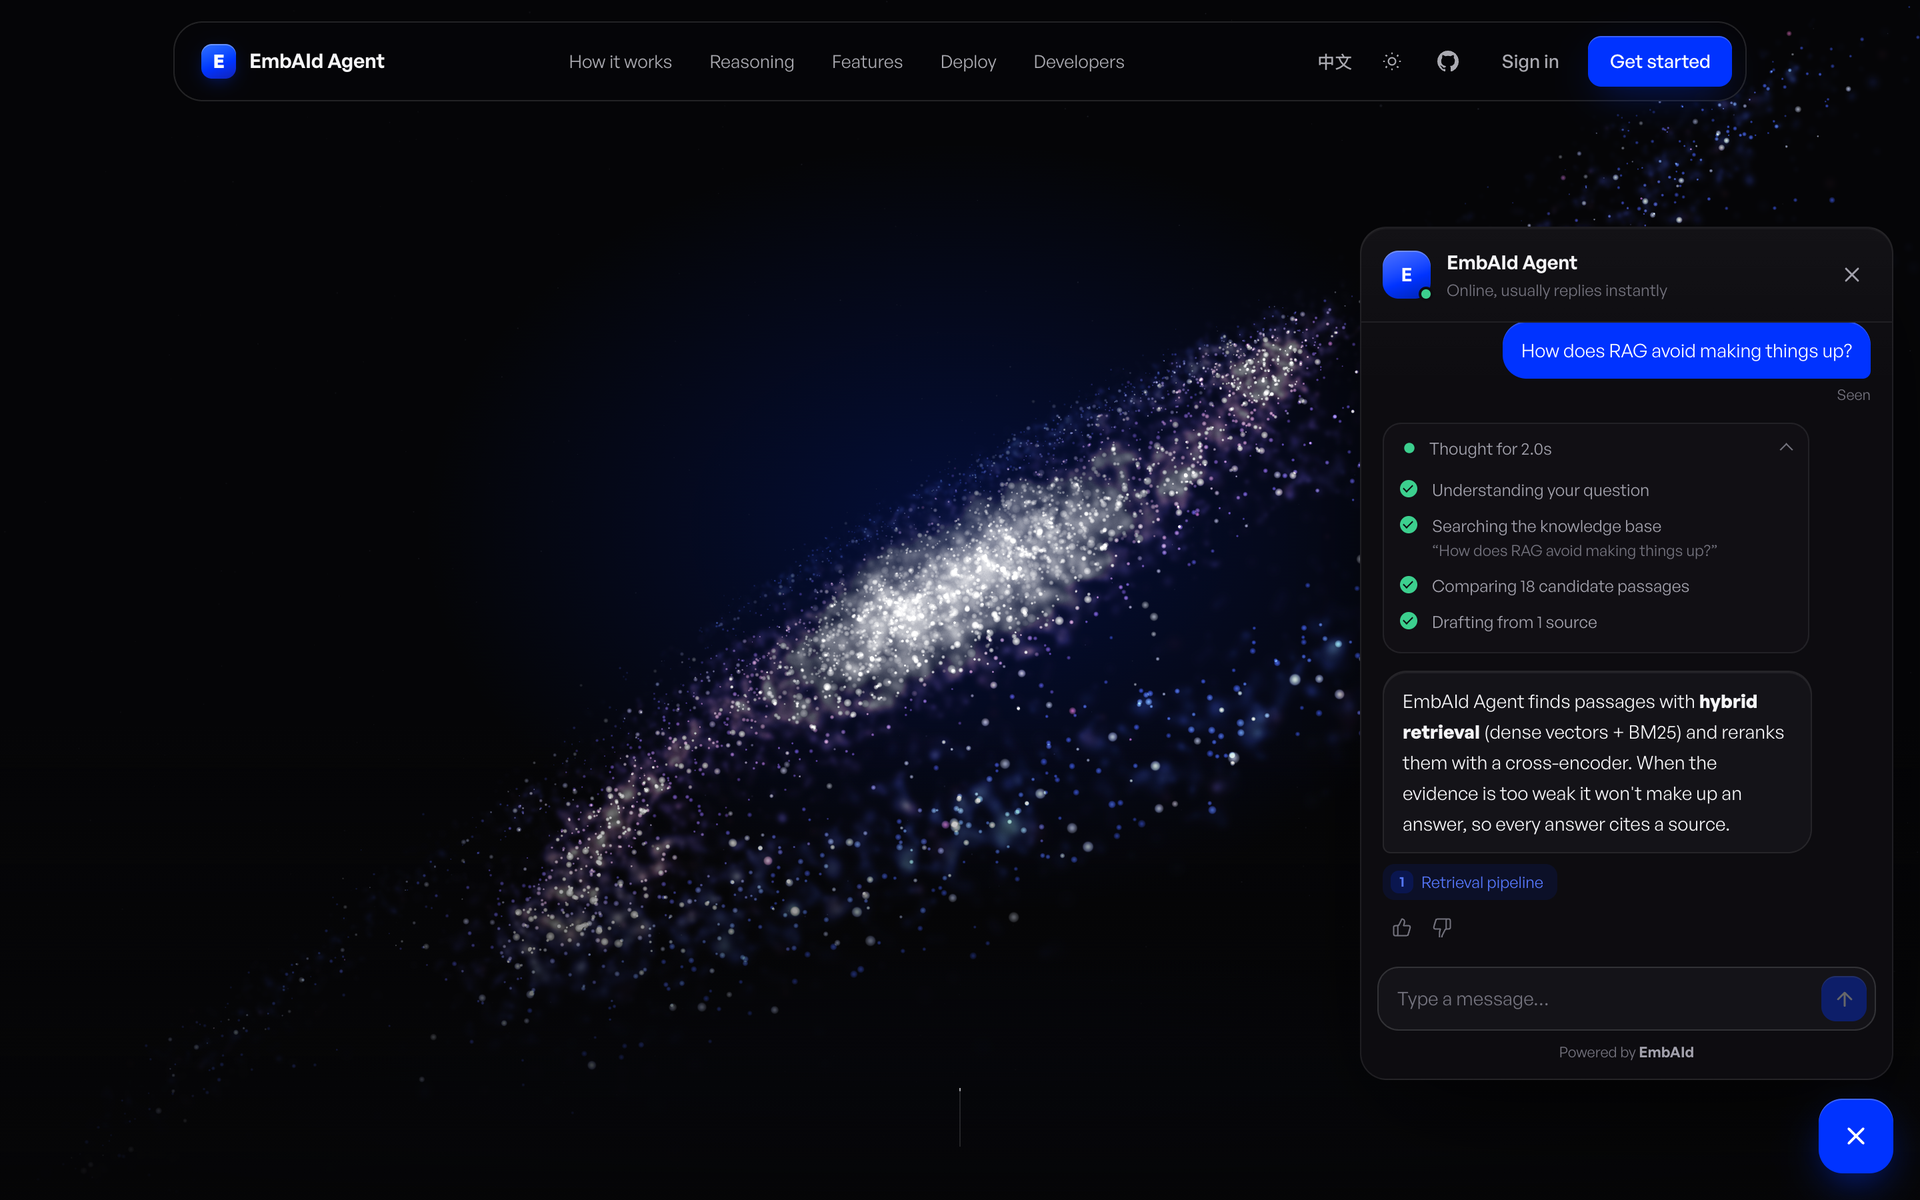
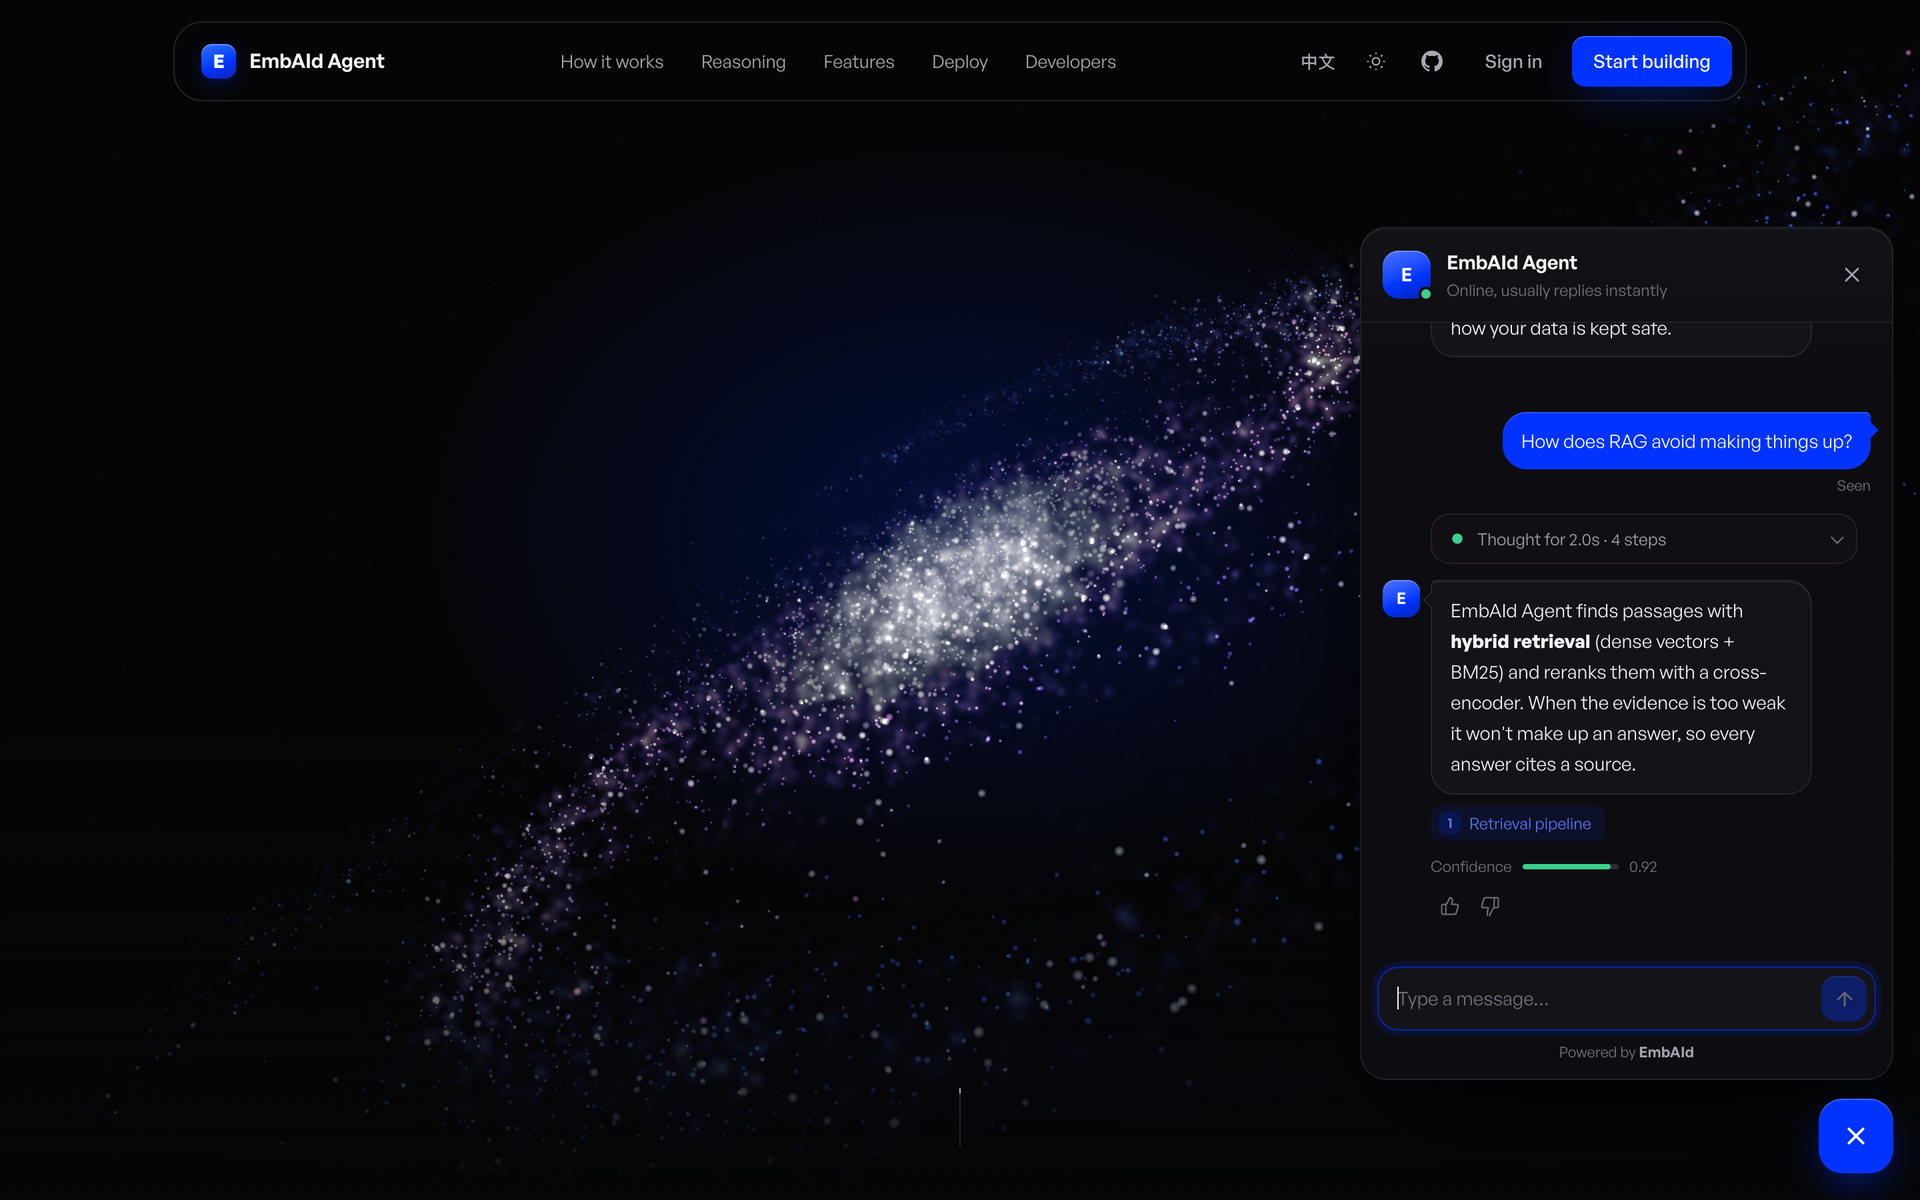
docs: refresh README screenshots and replace the bookstore demo shot

diff --git a/README.md b/README.md
@@ -113,7 +113,7 @@ runner, so a full instance starts with one command and no Docker.
 | **Landing page.** A WebGL particle field morphs through ten shapes that tell the product story. | **One script tag.** The intro section, with the embed snippet and the RAG pipeline stages. |
 | ![Dashboard overview](.github/assets/screenshots/dashboard-overview.png) | ![Playground with reasoning steps](.github/assets/screenshots/dashboard-playground.png) |
 | **Dashboard overview.** Launch progress, suggested next steps, and KPIs with trends. | **Playground.** Test answers before going live and unfold the agent's reasoning steps. |
-| ![Embed settings with install verification](.github/assets/screenshots/dashboard-embed.png) | ![Agent embedded on a website](.github/assets/screenshots/widget-on-site.png) |
+| ![Embed settings with install verification](.github/assets/screenshots/dashboard-embed.png) | ![The agent declining a question it has no evidence for and logging a knowledge gap](.github/assets/screenshots/widget-demo.png) |
 | **Embed settings.** Keys, allowed sites, the snippet, and automatic install verification. | **On your site.** The agent shows its reasoning, answers from your documents, and cites them. |
 
 ---
